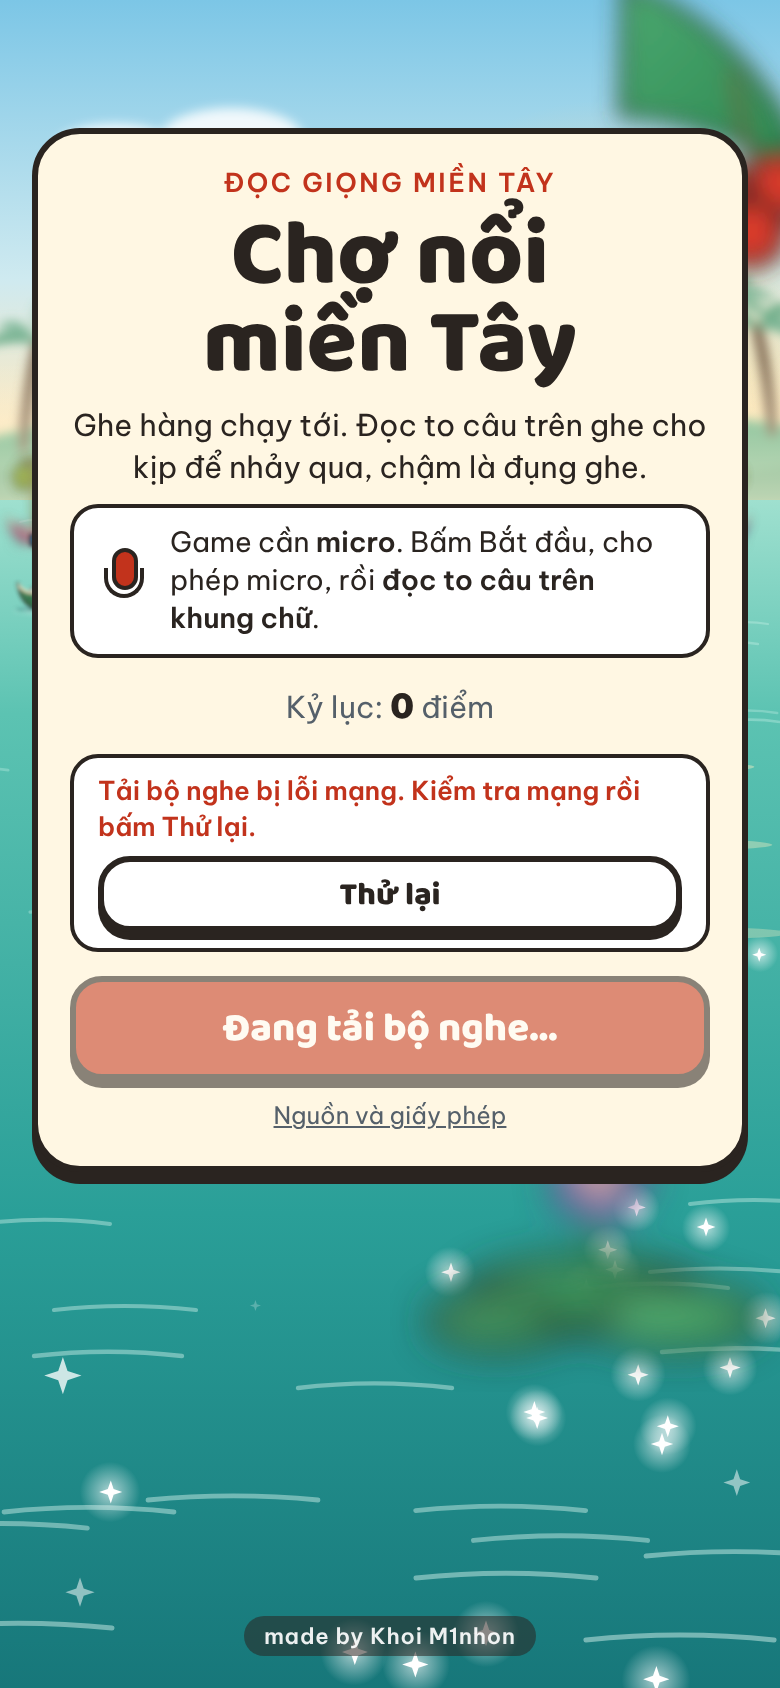
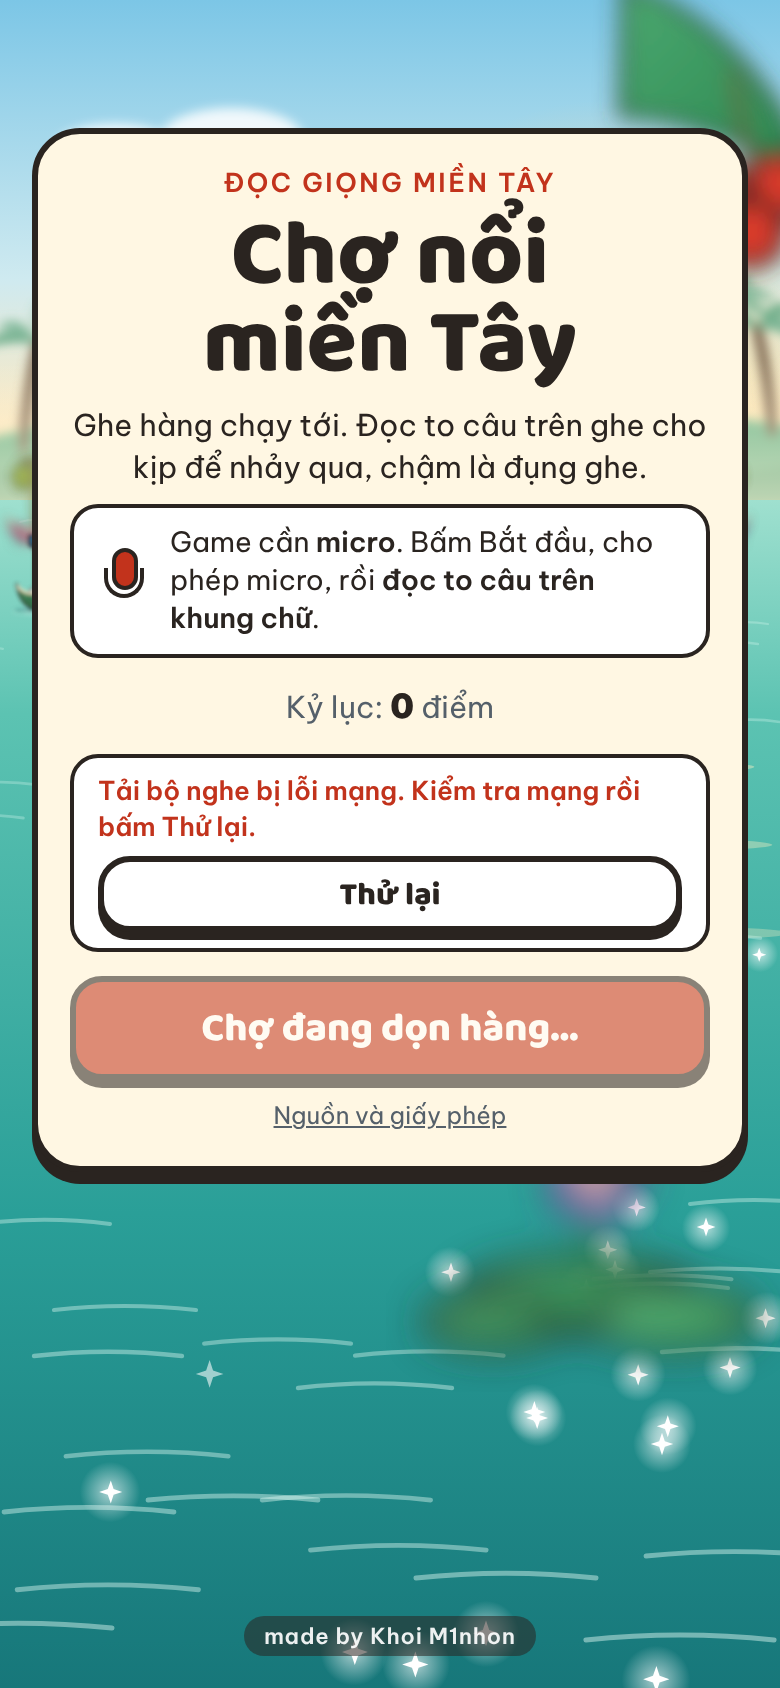
Màn tải: 'Bạn chờ một chút nhé, chợ đang dọn hàng ra…'
Claude-Session: https://claude.ai/code/session_017jqyeXqtiS2mnfjbSpzNZe

diff --git a/src/main.js b/src/main.js
@@ -1,16 +1,16 @@
 // Khởi động game: nạp dữ liệu + sprite, nối Game <-> Renderer <-> UI, vòng lặp requestAnimationFrame.
 // Mọi đường dẫn đều tương đối để chạy được trong thư mục con của GitHub Pages.
-import { CONFIG } from './config.js?v=69dfb0d0';
-import { Assets } from './game/assets.js?v=69dfb0d0';
-import { Game } from './game/game.js?v=69dfb0d0';
-import { Renderer } from './game/renderer.js?v=69dfb0d0';
-import { Hud } from './ui/hud.js?v=69dfb0d0';
-import { Panel } from './ui/panel.js?v=69dfb0d0';
-import { Screens } from './ui/screens.js?v=69dfb0d0';
-import { SpeechInput, speechSupport } from './speech/recognizer.js?v=69dfb0d0';
-import { LocalSpeechInput, SpeechSwitch, localAsrSupport } from './speech/local-asr.js?v=69dfb0d0';
-import { VoiceControl } from './speech/voice.js?v=69dfb0d0';
-import { playTaunt } from './game/sfx.js?v=69dfb0d0';
+import { CONFIG } from './config.js?v=b170c2bd';
+import { Assets } from './game/assets.js?v=b170c2bd';
+import { Game } from './game/game.js?v=b170c2bd';
+import { Renderer } from './game/renderer.js?v=b170c2bd';
+import { Hud } from './ui/hud.js?v=b170c2bd';
+import { Panel } from './ui/panel.js?v=b170c2bd';
+import { Screens } from './ui/screens.js?v=b170c2bd';
+import { SpeechInput, speechSupport } from './speech/recognizer.js?v=b170c2bd';
+import { LocalSpeechInput, SpeechSwitch, localAsrSupport } from './speech/local-asr.js?v=b170c2bd';
+import { VoiceControl } from './speech/voice.js?v=b170c2bd';
+import { playTaunt } from './game/sfx.js?v=b170c2bd';
 
 const app = document.getElementById('app');
 const canvas = document.getElementById('scene');
@@ -164,7 +164,7 @@ async function boot() {
   function updateStartBtn() {
     const ok = !!(speech && speech.inner && (speech.kind === 'webspeech' || (localAsr && localAsr.ready)));
     btnStart.disabled = !ok;
-    btnStart.textContent = ok ? 'Bắt đầu' : 'Đang tải bộ nghe…';
+    btnStart.textContent = ok ? 'Bắt đầu' : 'Chợ đang dọn hàng…';
   }
   const MB = (b) => (b / 1048576).toFixed(b < 10485760 ? 1 : 0);
   const fallbackWeb = (why) => {
@@ -177,12 +177,12 @@ async function boot() {
     asrUI(`Trình duyệt này chưa chạy được bộ nghe trên máy (thiếu ${localSup.why.join(', ')}).`, { cls: 'error' });
   } else if (localAsr) {
     useSpeech(localAsr, 'local');
-    asrUI('Đang tải bộ nghe tiếng Việt…', { frac: 0 });
+    asrUI('Bạn chờ một chút nhé, chợ đang dọn hàng ra…', { frac: 0 });
     localAsr.addEventListener('load-progress', (e) => {
       const { loaded, total } = e.detail;
       if (speech.kind !== 'local') return;
-      if (loaded >= total) asrUI('Đang khởi động bộ nghe tiếng Việt…', { frac: 1 });
-      else asrUI(`Đang tải bộ nghe tiếng Việt… ${Math.floor(100 * loaded / Math.max(1, total))}% (${MB(loaded)}/${MB(total)} MB)`, { frac: loaded / Math.max(1, total) });
+      if (loaded >= total) asrUI('Hàng bày xong rồi, sắp mở chợ…', { frac: 1 });
+      else asrUI(`Bạn chờ một chút nhé, chợ đang dọn hàng ra… ${Math.floor(100 * loaded / Math.max(1, total))}%`, { frac: loaded / Math.max(1, total) });
     });
     localAsr.addEventListener('load-ready', (e) => {
       const { rtf, cached, heapMB, loadMs } = e.detail;

diff --git a/index.html b/index.html
@@ -11,7 +11,7 @@
 <link rel="preconnect" href="https://fonts.googleapis.com">
 <link rel="preconnect" href="https://fonts.gstatic.com" crossorigin>
 <link href="https://fonts.googleapis.com/css2?family=Baloo+2:wght@600;800&family=Be+Vietnam+Pro:wght@400;600&display=swap" rel="stylesheet">
-<link rel="stylesheet" href="css/style.css?v=69dfb0d0">
+<link rel="stylesheet" href="css/style.css?v=b170c2bd">
 </head>
 <body>
 <div id="app" class="is-loading" data-state="boot">
@@ -45,7 +45,7 @@
       <p class="mic-note" id="start-note"><span class="mic-ico" aria-hidden="true"></span><span>Game cần <b>micro</b>. Bấm Bắt đầu, cho phép micro, rồi <b>đọc to câu trên khung chữ</b>.</span></p>
       <div class="start-best">Kỷ lục: <b id="start-best">0</b> điểm</div>
       <div class="asr-box" id="asr-box" hidden aria-live="polite">
-        <div class="asr-text" id="asr-text">Đang tải bộ nghe tiếng Việt…</div>
+        <div class="asr-text" id="asr-text">Bạn chờ một chút nhé, chợ đang dọn hàng ra…</div>
         <div class="bar asr-bar" id="asr-bar"><div class="bar-fill" id="asr-fill" style="transform:scaleX(0)"></div></div>
         <button class="btn btn-ghost btn-sm" id="btn-asr-retry" type="button" hidden>Thử lại</button>
       </div>
@@ -154,6 +154,6 @@
   </div>
 </div>
 <noscript><p style="padding:24px;font-family:sans-serif;color:#fff">Cần bật JavaScript để chơi.</p></noscript>
-<script type="module" src="src/main.js?v=69dfb0d0"></script>
+<script type="module" src="src/main.js?v=b170c2bd"></script>
 </body>
 </html>

diff --git a/src/speech/local-asr.js b/src/speech/local-asr.js
@@ -60,7 +60,7 @@ export class LocalSpeechInput extends EventTarget {
     }
     if (!this.worker) {
       try {
-        this.worker = new Worker(new URL('asr-worker.js?v=69dfb0d0', HERE));
+        this.worker = new Worker(new URL('asr-worker.js?v=b170c2bd', HERE));
       } catch (e) {
         this.loadState = 'error';
         this.emit('load-error', { code: 'init', message: String(e.message || e) });
@@ -139,7 +139,7 @@ export class LocalSpeechInput extends EventTarget {
     const constraints = { audio: { echoCancellation: true, noiseSuppression: true, autoGainControl: true, channelCount: 1 } };
     navigator.mediaDevices.getUserMedia(constraints).then(async (stream) => {
       if (!this.want) { stream.getTracks().forEach((t) => t.stop()); ctx.close().catch(() => {}); this.state = 'idle'; return; }
-      await ctx.audioWorklet.addModule(new URL('mic-worklet.js?v=69dfb0d0', HERE));
+      await ctx.audioWorklet.addModule(new URL('mic-worklet.js?v=b170c2bd', HERE));
       const src = ctx.createMediaStreamSource(stream);
       const node = new AudioWorkletNode(ctx, 'cho-noi-mic', { numberOfInputs: 1, numberOfOutputs: 1, outputChannelCount: [1], channelCount: 1, channelCountMode: 'explicit' });
       node.port.onmessage = (e) => this.onAudio(e.data);

diff --git a/src/game/game.js b/src/game/game.js
@@ -2,9 +2,9 @@
 // B5: bố cục chạy ngang kiểu game khủng long trong khung dọc — ghe mình cố định bên trái, ghe hàng chạy từ phải sang
 // trên cùng một làn nước. API giọng nói (B4): game.onPhraseMatched(roundId, { dialect: boolean }).
 // Sự kiện (game.addEventListener): state, round, matched, landed, tier, crash, over, pause, taunt.
-import { CONFIG } from '../config.js?v=69dfb0d0';
-import { PhrasePicker, roundTime, levelForPasses } from './phrases.js?v=69dfb0d0';
-import { loadBest, saveBest } from './storage.js?v=69dfb0d0';
+import { CONFIG } from '../config.js?v=b170c2bd';
+import { PhrasePicker, roundTime, levelForPasses } from './phrases.js?v=b170c2bd';
+import { loadBest, saveBest } from './storage.js?v=b170c2bd';
 
 const lerp = (a, b, t) => a + (b - a) * t;
 const clamp01 = (t) => Math.max(0, Math.min(1, t));

diff --git a/src/ui/panel.js b/src/ui/panel.js
@@ -1,7 +1,7 @@
 // Khung chữ dưới: phiên âm to (âm đổi tô đỏ) + chính tả nhỏ trong ngoặc + thanh thời gian
 // + dòng "Đang nghe: …" (B4) và tô dần các chữ đã đọc đúng. Không bao giờ hiện câu kế tiếp.
-import { phoneticSegments } from '../game/phrases.js?v=69dfb0d0';
-import { CONFIG } from '../config.js?v=69dfb0d0';
+import { phoneticSegments } from '../game/phrases.js?v=b170c2bd';
+import { CONFIG } from '../config.js?v=b170c2bd';
 
 // cỡ chữ (px ở khung 390) theo độ dài câu phiên âm
 function fontSizeFor(text) {

diff --git a/src/speech/voice.js b/src/speech/voice.js
@@ -1,6 +1,6 @@
 // Nối bộ nhận giọng với vòng chơi: mỗi câu mới đặt con trỏ transcript, chấm trên kết quả tạm thời,
 // khớp là gọi game.onPhraseMatched(roundId, {dialect}) ngay (không chờ kết quả cuối).
-import { TranscriptCursor, matchPhrase, matchProgress } from './matcher.js?v=69dfb0d0';
+import { TranscriptCursor, matchPhrase, matchProgress } from './matcher.js?v=b170c2bd';
 
 export class VoiceControl {
   constructor({ game, speech, panel }) {

diff --git a/src/game/renderer.js b/src/game/renderer.js
@@ -1,6 +1,6 @@
 // Vẽ cảnh bằng Canvas 2D từ sprite đã nướng sẵn (xem assets.js).
 // Toạ độ thế giới: đơn vị u (khung thiết kế rộng 390u như keyframe), chiều cao = chiều cao màn / tỉ lệ.
-import { CONFIG } from '../config.js?v=69dfb0d0';
+import { CONFIG } from '../config.js?v=b170c2bd';
 
 const DEG = Math.PI / 180;
 

diff --git a/src/speech/asr-worker.js b/src/speech/asr-worker.js
@@ -9,7 +9,7 @@
 //           {type:'result', id, text, ms, audioSec, at (giây âm thanh tính từ lúc mở micro, cuối đoạn), interval}
 /* global ChoNoiAsrCore, createChoNoiAsr */
 'use strict';
-importScripts('asr-core.js?v=69dfb0d0');
+importScripts('asr-core.js?v=b170c2bd');
 
 const SR = 16000;
 const FRAME = 320;                 // 20 ms

diff --git a/src/game/storage.js b/src/game/storage.js
@@ -1,5 +1,5 @@
 // Kỷ lục lưu trên máy. localStorage có thể bị chặn (Safari riêng tư, iframe, cookie tắt) -> giữ trong bộ nhớ.
-import { CONFIG } from '../config.js?v=69dfb0d0';
+import { CONFIG } from '../config.js?v=b170c2bd';
 
 let memBest = 0;
 let usable = null;

diff --git a/src/game/phrases.js b/src/game/phrases.js
@@ -1,5 +1,5 @@
 // Chọn câu theo level + tách phần âm đổi (tô đỏ) giữa phiên âm và chính tả.
-import { CONFIG } from '../config.js?v=69dfb0d0';
+import { CONFIG } from '../config.js?v=b170c2bd';
 
 export function levelForPasses(passed) {
   let lv = 1;

diff --git a/src/ui/hud.js b/src/ui/hud.js
@@ -1,5 +1,5 @@
 // HUD trên cùng: Điểm, Kỷ lục, nhãn phương tiện (giống pv1).
-import { CONFIG } from '../config.js?v=69dfb0d0';
+import { CONFIG } from '../config.js?v=b170c2bd';
 
 const pad2 = (n) => String(n).padStart(2, '0');
 

diff --git a/dev/tools/qa_b4b.py b/dev/tools/qa_b4b.py
@@ -142,7 +142,7 @@ def main():
             pg.screenshot(path=f'{QA}/b4b_1_loading.png')
             txt = ev(pg, 'document.getElementById("asr-text").textContent')
             FAIL['slow'] = False
-            ok(('Đang tải bộ nghe tiếng Việt' in txt and 'MB' in txt or 'Đang khởi động' in txt) and ev(pg, 'document.getElementById("btn-start").disabled'),
+            ok(('chợ đang dọn hàng ra' in txt and '%' in txt or 'sắp mở chợ' in txt) and ev(pg, 'document.getElementById("btn-start").disabled'),
                f'màn tải: "{txt}", nút Bắt đầu tắt')
             pg.wait_for_function(READY, timeout=180000)
             info = ev(pg, '__choNoi.localAsr.info')
